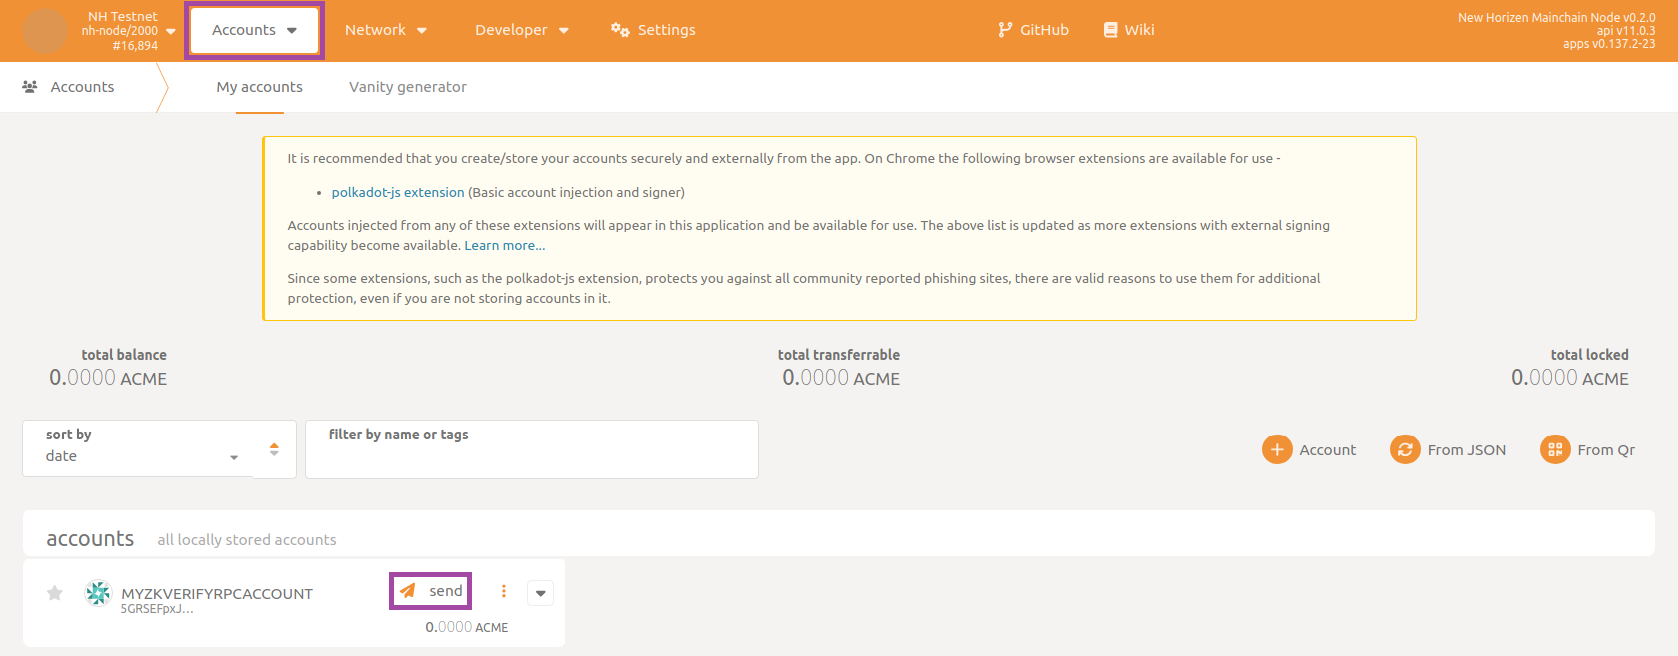
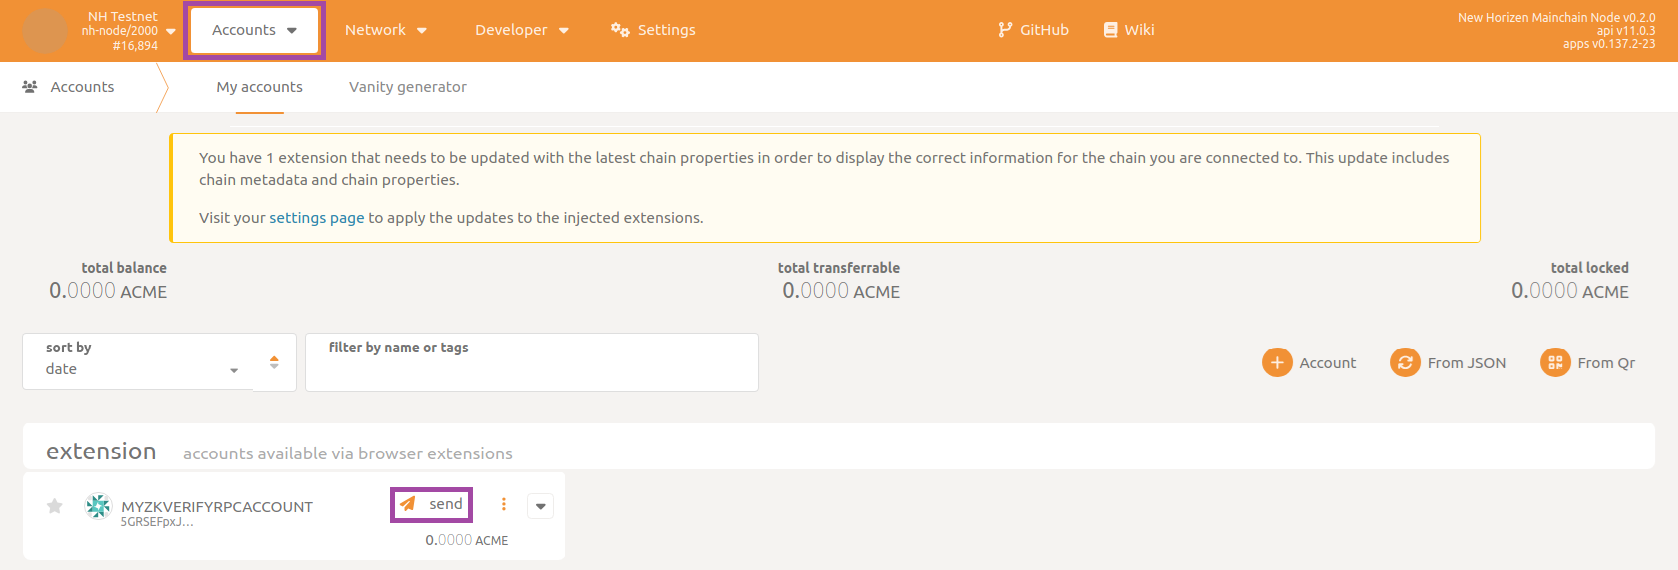
Using browser extension for accounts

diff --git a/docs/tutorials/05-how_to_run_a_node/02-run_using_docker/04-run_validator_node.md b/docs/tutorials/05-how_to_run_a_node/02-run_using_docker/04-run_validator_node.md
@@ -129,7 +129,7 @@ The hexadecimal prefix `0x` is written just once.
 
 This is the set of session public keys of your validator.
 
-After generating the set of keys, you have to register them in the blockchain, so that they are available to all the nodes in network. You can achieve this by submitting a specific extrinsic through PolkadotJS. Navigate to the section `Developer` then the subsection `Extrinsics` and select `session`, `setKeys` in the two dropdown panels. Remember to select your validator account as `using the selected account`.   Then fill in the textboxes `keys: NhRuntimeSessionKeys` and `proof: Bytes` respectively with the set of session public keys you just prepared and with empty value `0x`, finally click on `Submit Transaction` button:
+After generating the set of keys, you have to register them in the blockchain, so that they are available to all the nodes in network. You can achieve this by submitting a specific extrinsic through PolkadotJS. Navigate to the section `Developer` then to the subsection `Extrinsics` and select `session`, `setKeys` in the two dropdown panels. Remember to select your validator account as `using the selected account`.   Then fill in the textboxes `keys: NhRuntimeSessionKeys` and `proof: Bytes` respectively with the set of session public keys you just prepared and with empty value `0x`, finally click on `Submit Transaction` button:
 
 ![alt_text](./img/polkadotjs_setkeys.png)
 
@@ -137,7 +137,7 @@ Insert your account password and confirm by clicking on button `Sign and Submit`
 
 ![alt_text](./img/polkadotjs_setkeys_s1.png)
 
-In few seconds you should receive a popup message on the top-right corner confirming the extrinsic has been succesfully submitted.
+In few seconds you should receive a pop-up message on the top-right corner confirming the extrinsic has been succesfully submitted.
 
 Now that the blockchain knows those public session keys are associated with your validator account, you can proceed by staking some of the tokens you own in order to have a chance to be elected as a validator for the next sessions. To achieve this you have to submit another type of extrinsic.
 
@@ -200,7 +200,7 @@ To submit the staking extrinsic, navigate back to the section `Developer` then t
 
 ![alt_text](./img/polkadotjs_staking_bond.png)
 
-Insert your account password and confirm by clicking on button `Sign and Submit`. Wait for popup message confirming successful submission. As an additional double check you can navigate to section `Network` then subsection `Staking`, click on `Waiting` tab and verify that your validator is within the list:
+Insert your account password and confirm by clicking on button `Sign and Submit`. Wait for pop-up message confirming successful submission. As an additional double check you can navigate to the section `Network` then to the subsection `Staking`, click on `Waiting` tab and verify that your validator is within the list:
 
 ![alt_text](./img/polkadotjs_staking.png)
 
@@ -210,7 +210,7 @@ Now that the blockchain knows you have staked your tokens it's time for the last
 
 ![alt_text](./img/polkadotjs_staking_validate.png)
 
-Insert your account password and confirm by clicking on button `Sign and Submit`. Wait for popup message confirming successful submission. As an additional double check you can navigate to section `Network` then subsection `Staking`, click on `Active` tab and verify that your validator is within the list.
+Insert your account password and confirm by clicking on button `Sign and Submit`. Wait for pop-up message confirming successful submission. As an additional double check you can navigate to the section `Network` then to the subsection `Staking`, click on `Active` tab and verify that your validator is within the list.
 
 ## Conclusion
 
@@ -224,7 +224,7 @@ If you are interested in how to claim the new tokens you deserve as an active va
 
 ![alt_text](./img/polkadotjs_claim.png)
 
-the era index being retrievable from section `Developer` then subsection `Chain state`, state `staking`, `erasRewardPoints`, then filtering with respect to your validator account.
+the era index being retrievable from section `Developer` then to the subsection `Chain state`, state `staking`, `erasRewardPoints`, then filtering with respect to your validator account.
 
 :::warning
 You will want to periodically repeat this claim operation (even better to automate it in some way) as the blockchain progresses.  You can only claim rewards for the **previous 30 eras** (approximately one week).

diff --git a/docs/tutorials/05-how_to_run_a_node/02-run_using_docker/02-run_rpc_node.md b/docs/tutorials/05-how_to_run_a_node/02-run_using_docker/02-run_rpc_node.md
@@ -157,29 +157,11 @@ Note that if during the execution of script `init.sh` you selected non-archival 
 
 Another type of operation you can perform is sending some tokens from an account to another.  In Substrate, accounts are associated to a pair of keys, one private and one public (very similar to Bitcoin addresses or Ethereum EOAs).
 
-In order to submit extrinsics (transactions, in Substrate terminology) with PolkadotJS from one of your accounts, you need to import it within the application.
+In order to submit extrinsics (transactions, in Substrate terminology) with PolkadotJS from one of your accounts, you need to have a Polkadot-compatible browser extension wallet (like [Talisman](https://docs.zkverify.io/tutorials/connect-a-wallet#using-talisman) or [Subwallet](https://docs.zkverify.io/tutorials/connect-a-wallet#using-talisman)) installed. Then, refresh PolkadotJS web-page and the extension will be automatically detected and a pop-up window will appear asking you to connect it:
 
-Navigate to the `Settings` section, then to the subsection `account options`, open the drop-down list `in-browser account creation`, select the option `Allow local in-browser account storage` and click on the `Save` button:
+![alt_text](./img/talisman_connect.png)
 
-![alt_text](./img/polkadotjs_settings.png)
-
-Next, navigate to the section `Accounts` then to the subsection `Accounts` and click on the `Account` button:
-
-![alt_text](./img/polkadotjs_accounts.png)
-
-Fill in the secret phrase or raw seed associated with your account (ignore the newly one generated by the wizard), tick the checkbox `I have saved my mnemonic seed safely` and click on the `Next` button:
-
-![alt_text](./img/polkadotjs_accounts_s1.png)
-
-Then provide inputs for fields `name`, `password`, `password (repeat)` and click on the `Next` button:
-
-![alt_text](./img/polkadotjs_accounts_s2.png)
-
-Finally, review the summary and click on the confirmation button `Save`:
-
-![alt_text](./img/polkadotjs_accounts_s3.png)
-
-After importing your account, you can send funds from the same page by clicking on the `send` button:
+Next, navigate to the section `Accounts` then to the subsection `Accounts` and send funds by clicking on the `send` button:
 
 ![alt_text](./img/polkadotjs_send_tokens.png)
 
@@ -187,4 +169,4 @@ Selecting your account as the source and typing in the address of the destinatio
 
 ![alt_text](./img/polkadotjs_send_tokens_s1.png)
 
-In a few seconds, you should receive feedback in a popup message on the top-right corner confirming that the extrinsic has been successfully submitted and the funds have been transferred.
+In a few seconds, you should receive feedback in a pop-up message on the top-right corner confirming that the extrinsic has been successfully submitted and the funds have been transferred.
